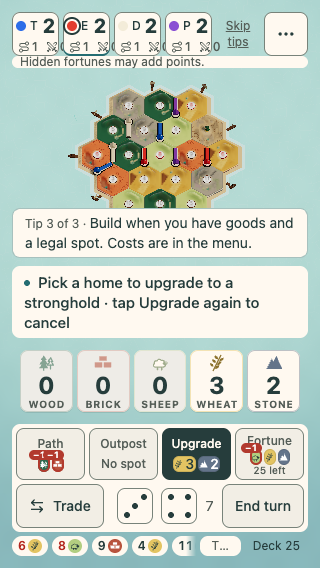
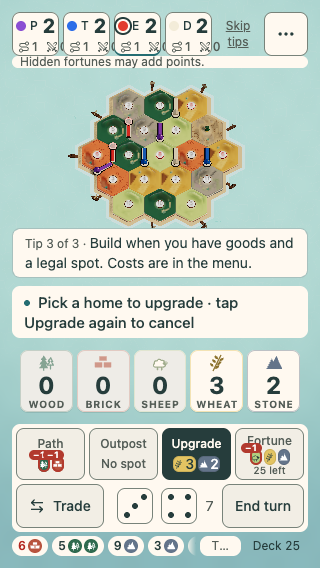
AntiGravity Gemini 3.8: address desk review on stronghold upgrade copy, hints, and zero eligible handling (#1155)

diff --git a/src/components/game/Hud.tsx b/src/components/game/Hud.tsx
@@ -99,7 +99,7 @@ function armedCopy(mode: BuildMode, roadPicks: number, eligibleCount = 1, phone 
       return ["Place an outpost", "Outpost"];
     case "stronghold":
       return [
-        eligibleCount === 0 ? "No homes to upgrade" : "Pick a home to upgrade to a stronghold",
+        eligibleCount === 0 ? "No homes to upgrade" : "Pick a home to upgrade",
         phone ? "Upgrade" : "Stronghold",
       ];
     // #423: both fortunes are armed from the tray, and the My fortunes button stays pressed until the pick is made or cancelled.
@@ -260,7 +260,7 @@ export function Hud() {
   const subjectPlayer = state.players.find((p) => p.id === subject) ?? state.players[0]!;
   const yours = mode !== "hotseat" && subject === actor && (state.phase !== "discard" || discarder !== null);
   // #419: an armed build says what to pick and how to cancel (a touch screen has no Esc key).
-  const eligibleHomes = buildMode === "stronghold" ? legalCities(state, actor).length : 1;
+  const eligibleHomes = useGame((s) => (buildMode === "stronghold" ? s.highlights().vertices.length : 1));
   const armed = mine ? armedCopy(buildMode, roadPicks.length, eligibleHomes, phone) : null;
   const cancelNote = matchMedia("(pointer: coarse)").matches || phone ? `tap ${armed?.[1]} again to cancel` : "Esc cancels";
   const phaseText = armed
@@ -455,16 +455,10 @@ export function Hud() {
                       onClick={() => {
                         // aria-disabled keeps the button focusable, so the click itself must refuse (but may still disarm).
                         // A tap the hand cannot pay for says what is missing (a spot waiting, goods short) instead of doing nothing.
-                        if (!spectator && why && buildMode !== arm) {
+                        if (!spectator && why && kind === "stronghold" && buildMode !== arm) {
                           setHint({ kind });
-                          const reason = why === "None left"
-                            ? (kind === "stronghold" ? "No strongholds left" : "None left")
-                            : (kind === "stronghold" ? "No homes to upgrade" : "No legal spot to build");
-                          refuseQuietly(reason);
-                          if (kind === "stronghold" && !missing && arm) {
-                            setBuildMode(arm);
-                          }
-                          return;
+                          const reason = why === "None left" ? "No strongholds left" : "No homes to upgrade";
+                          return void refuseQuietly(reason);
                         }
                         if (!spectator && !why && missing && buildMode !== arm) {
                           setHint({ kind });
